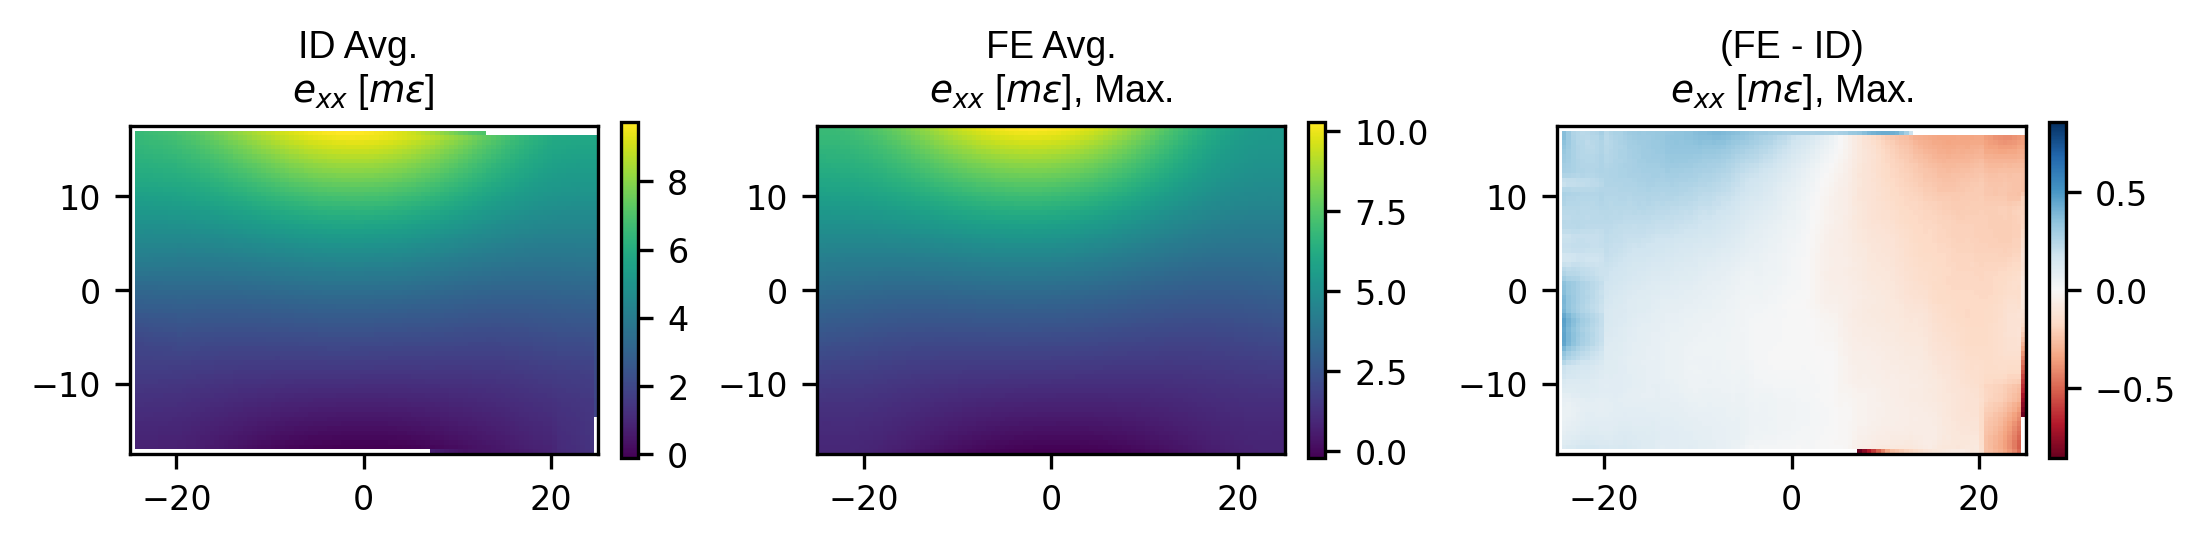
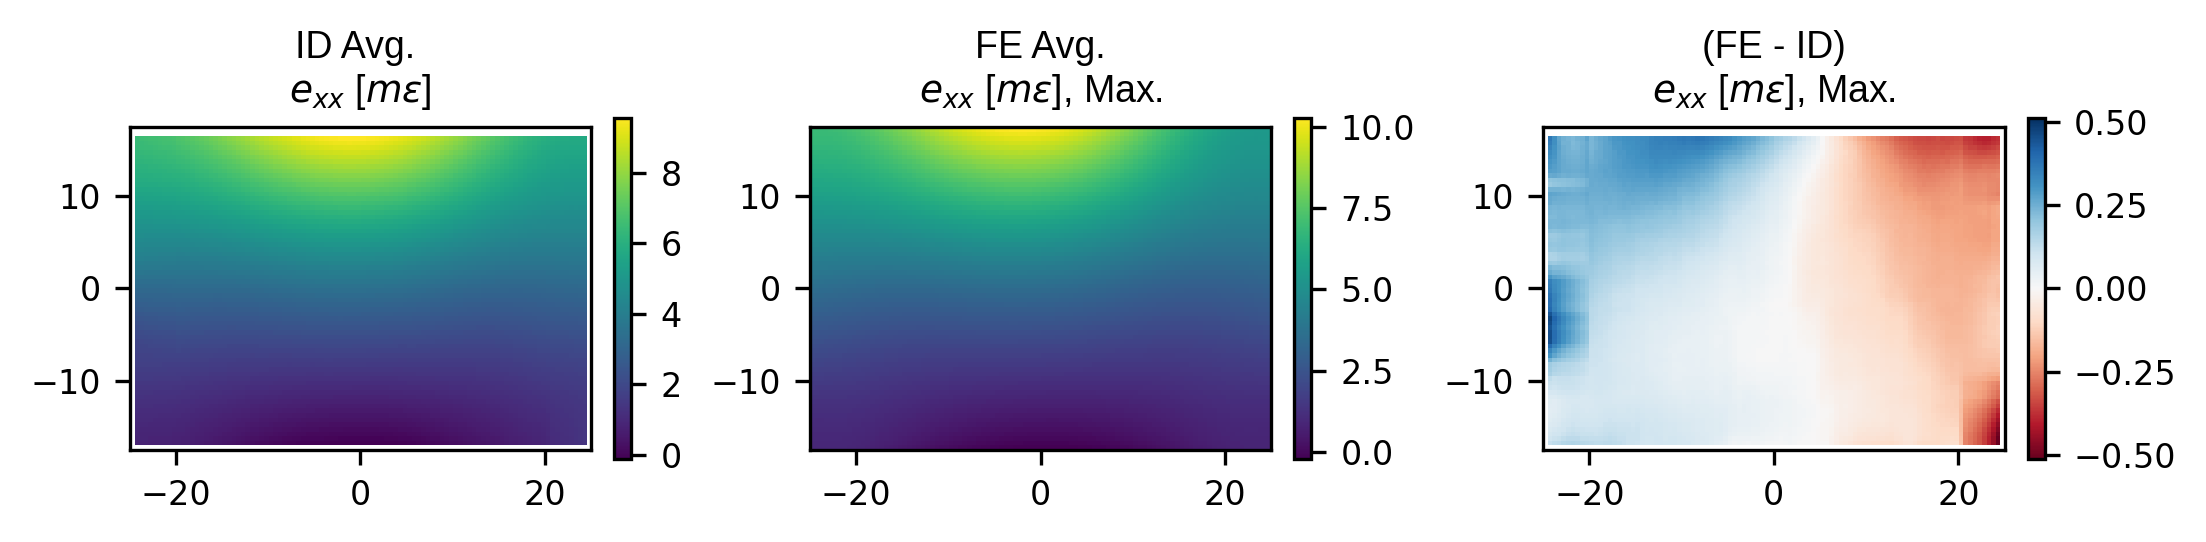
Cropped weird edge data from ID systematic error estimate

diff --git a/scripts/main_imagedef_syserr_calc.py b/scripts/main_imagedef_syserr_calc.py
@@ -270,6 +270,13 @@ def main() -> None:
         id_strain_grid[kk] = id_strain_temp
         print(f"{kk=}, {fe_strain_grid[kk].shape=}, "
               +f"{id_strain_grid[kk].shape=}")
+
+    # Set edge data-points to nan in the ID data to remove poor quality data
+    for kk in id_strain_grid:
+        id_strain_grid[kk][:2,:,:] = np.nan
+        id_strain_grid[kk][-1:,:,:] = np.nan
+        id_strain_grid[kk][:,:1,:] = np.nan
+        id_strain_grid[kk][:,-1:,:] = np.nan
         
     #---------------------------------------------------------------------------
     # Figure comparing fields
